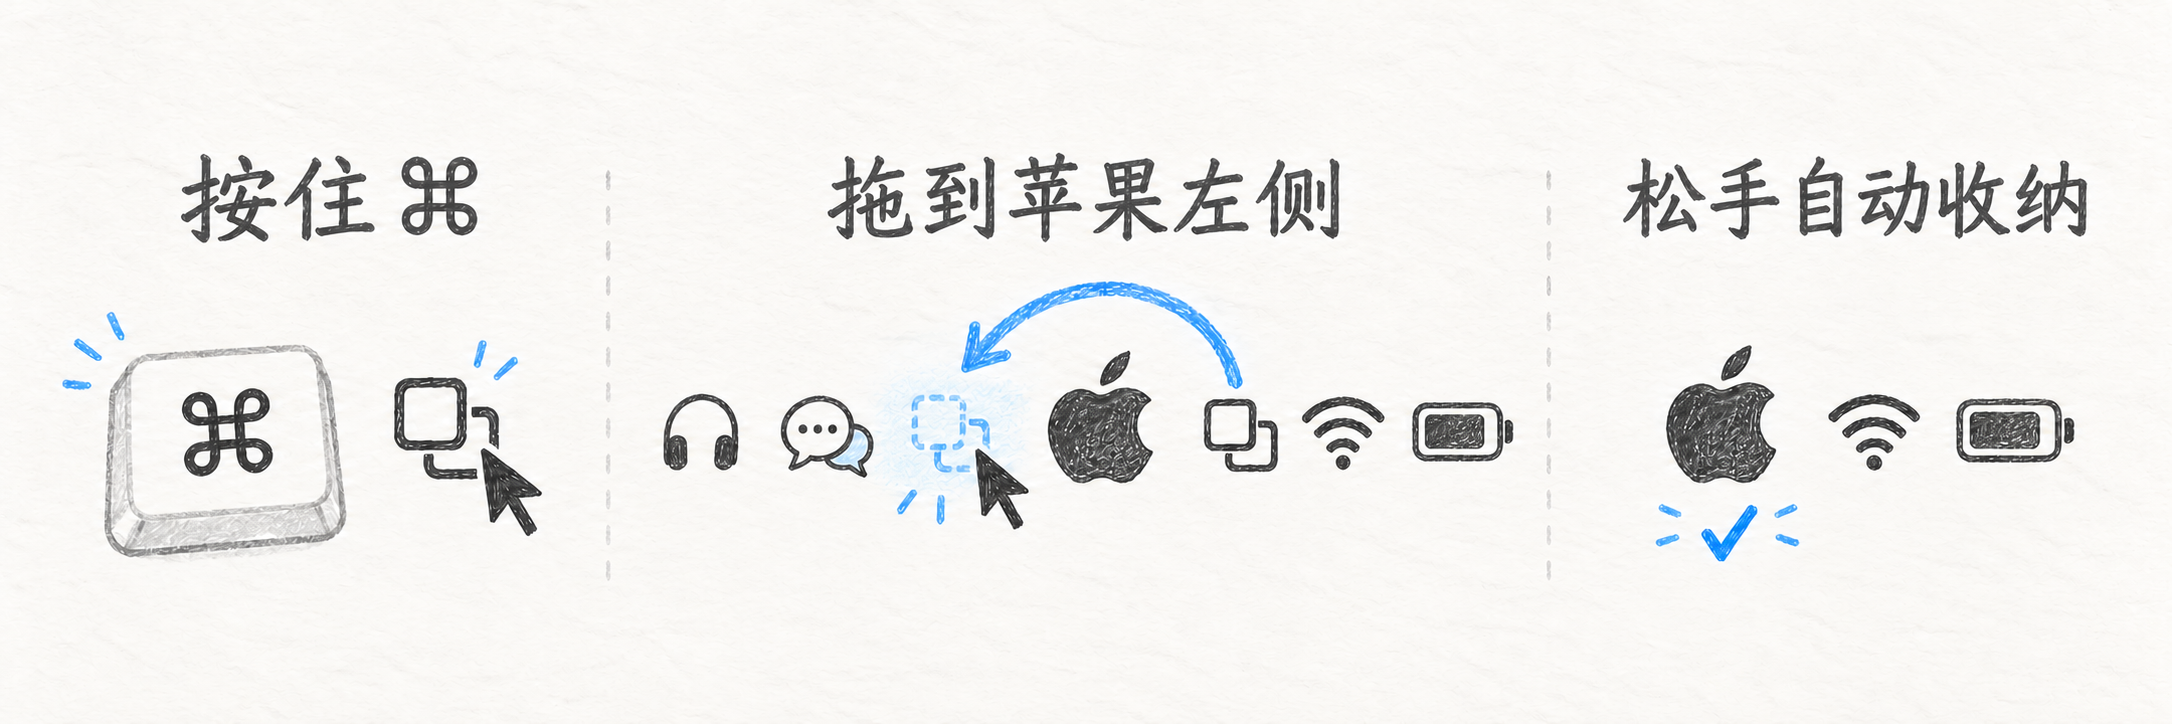
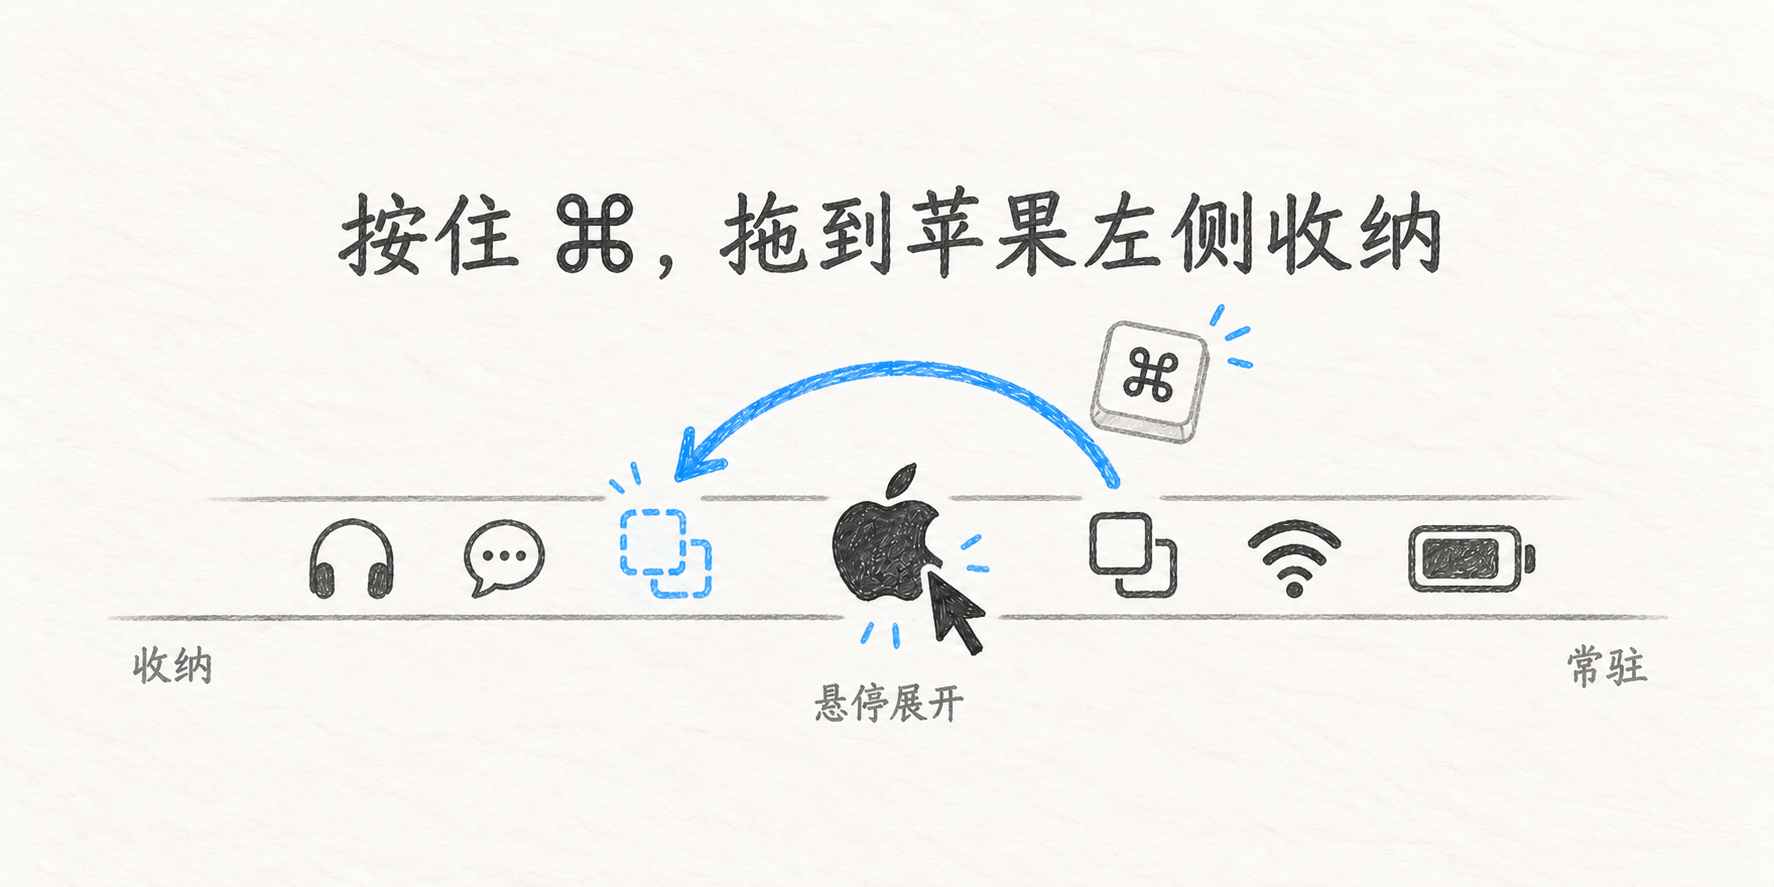
Simplify menu bar settings into one illustrated guide

diff --git a/Sources/MacOSX/MenuBarShelf/MenuBarNativeShelfDashboard.swift b/Sources/MacOSX/MenuBarShelf/MenuBarNativeShelfDashboard.swift
@@ -1,104 +1,65 @@
 import AppKit
 
-/// An illustrated native guide; application controls remain in the system bar.
+/// One illustrated instruction sheet. The module switch belongs to the host;
+/// permission and recovery actions appear only when the user needs them.
 @MainActor final class MenuBarNativeShelfDashboard: NSView {
-    var onCollect: ((String, Bool) -> Void)?
     var onRead: (() -> Void)?
-    var onShow: (() -> Void)?
-    var onCollapse: (() -> Void)?
     var onAccess: (() -> Void)?
-    private let heading = NSTextField(wrappingLabelWithString: "左侧收纳，右侧常驻")
-    private let explanation = NSTextField(wrappingLabelWithString: "按住 ⌘ 拖动图标，松手后自动按苹果左右归类。")
-    private let note = NSTextField(wrappingLabelWithString: "悬停苹果展开原图标；单击、双击仍由原应用处理。同一应用的多个图标请放在同侧。")
-    private let status = NSTextField(wrappingLabelWithString: "")
-    private let read = MinimalButton(title: "按当前位置收纳", target: nil, action: nil)
-    private let show = MinimalButton(title: "全部显示", target: nil, action: nil)
-    private let access = MinimalButton(title: "授权辅助功能", target: nil, action: nil)
     private let guideScroll = NSScrollView()
     private let guide = NSImageView()
-    private let scroll = NSScrollView()
-    private let list = NativeMenuBarCollectedList()
-    private var items: [NativeMenuBarChoice] = []
-    private var narrow = false
+    private let assistance = NSView()
+    private let message = NSTextField(wrappingLabelWithString: "")
+    private let action = MinimalButton(title: "", target: nil, action: nil)
+    private var needsPermission = false
+    private var lastWidth: CGFloat = 0
     private static let artwork: NSImage? = Bundle.main.url(forResource: "SettingsMenuBarBoard", withExtension: "png").flatMap { NSImage(contentsOf: $0) }
+    private var guideWidth: CGFloat { max(680, bounds.width) }
+    private var guideHeight: CGFloat {
+        let size = Self.artwork?.size ?? NSSize(width: 2, height: 1)
+        return guideWidth * size.height / max(1, size.width)
+    }
     override var isFlipped: Bool { true }
-    override var intrinsicContentSize: NSSize { CGSize(width: 840, height: narrow ? 590 : 500) }
+    override var intrinsicContentSize: NSSize {
+        NSSize(width: 840, height: guideHeight + (assistance.isHidden ? 0 : 86))
+    }
     init() {
-        super.init(frame: CGRect(x: 0, y: 0, width: 840, height: 500))
-        heading.font = SketchPalette.heading(23); heading.textColor = SketchPalette.ink
-        for label in [explanation, note, status] { label.font = .systemFont(ofSize: 13); label.textColor = SketchPalette.muted }
-        read.target = self; read.action = #selector(readItems)
-        show.target = self; show.action = #selector(showItems)
-        access.target = self; access.action = #selector(requestAccess)
+        super.init(frame: CGRect(x: 0, y: 0, width: 840, height: 420))
         guide.image = Self.artwork; guide.imageScaling = .scaleProportionallyUpOrDown
         guide.setAccessibilityElement(true); guide.setAccessibilityRole(.image)
-        guide.setAccessibilityLabel("按住 Command，把应用图标拖到我们的苹果左侧，松手自动收纳；苹果右侧保持常驻。")
+        guide.setAccessibilityLabel("按住 Command，把应用图标拖到我们的苹果左侧，松手自动收纳；拖到右侧保持常驻。悬停苹果展开原生图标，移开后自动收起。同一应用的多个图标请放在同一侧。")
+        guide.toolTip = "同一应用的多个图标请放在同一侧；单击、双击仍由原应用处理。"
         guideScroll.drawsBackground = false; guideScroll.borderType = .noBorder
-        guideScroll.hasHorizontalScroller = true; guideScroll.autohidesScrollers = true; guideScroll.documentView = guide
-        scroll.drawsBackground = false; scroll.borderType = .noBorder
-        scroll.hasVerticalScroller = true; scroll.autohidesScrollers = true; scroll.documentView = list
-        [heading, explanation, guideScroll, read, show, access, scroll, status, note].forEach { addSubview($0) }
+        guideScroll.hasHorizontalScroller = true; guideScroll.autohidesScrollers = true
+        guideScroll.scrollerStyle = .overlay; guideScroll.documentView = guide
+        addSubview(guideScroll)
+        message.font = .systemFont(ofSize: 13); message.textColor = SketchPalette.muted
+        action.target = self; action.action = #selector(resolveIssue)
+        assistance.addSubview(message); assistance.addSubview(action)
+        assistance.isHidden = true; addSubview(assistance)
     }
     required init?(coder: NSCoder) { nil }
-    @objc private func readItems() { onRead?() }
-    @objc private func showItems() { onShow?() }
-    @objc private func requestAccess() { onAccess?() }
-    func update(active: Bool, hidden: Bool, busy: Bool, reading: Bool, issue: String?, choices: [NativeMenuBarChoice], permitted: Bool) {
-        read.isEnabled = active && !reading && !busy; show.isEnabled = active
-        access.isHidden = permitted; access.isEnabled = active
-        let collected = choices.filter(\.collected)
-        if collected.map({ "\($0.bundle)|\($0.running)|\($0.name)" }) != items.map({ "\($0.bundle)|\($0.running)|\($0.name)" }) {
-            items = collected; list.setItems(collected)
-        }
-        status.stringValue = issue ?? (!active ? "开启后可从顶部苹果展开。" : reading ? "正在确认拖动后的位置…" : busy ? "正在收纳左侧图标…" : hidden ? "已收纳 \(collected.count) 个应用 · 悬停苹果展开" : "原生图标已展开 · 右侧常驻")
+    @objc private func resolveIssue() { if needsPermission { onAccess?() } else { onRead?() } }
+    func update(active: Bool, busy: Bool, reading: Bool, issue: String?, permitted: Bool) {
+        needsPermission = active && !permitted
+        let text: String? = needsPermission ? "需要辅助功能权限，授权后即可使用菜单栏收纳。" : active ? issue : nil
+        let wasHidden = assistance.isHidden
+        assistance.isHidden = text == nil
+        message.stringValue = text ?? ""
+        action.title = needsPermission ? "授权辅助功能" : "重试"
+        action.isEnabled = active && !reading && !busy
+        if wasHidden != assistance.isHidden { invalidateIntrinsicContentSize() }
         needsLayout = true
     }
     override func draw(_ dirtyRect: NSRect) { SketchPalette.paper.setFill(); dirtyRect.fill() }
     override func layout() {
         super.layout()
-        let width = max(220, bounds.width), compact = width < 500
-        if narrow != compact { narrow = compact; invalidateIntrinsicContentSize() }
-        heading.frame = CGRect(x: 0, y: 4, width: width, height: compact ? 62 : 32)
-        explanation.frame = CGRect(x: 0, y: compact ? 70 : 44, width: width, height: compact ? 40 : 24)
-        let guideY: CGFloat = compact ? 112 : 74, guideHeight: CGFloat = compact ? 214 : 198
-        guideScroll.frame = CGRect(x: 0, y: guideY, width: width, height: guideHeight)
-        // Narrow settings scroll the guide instead of making its titles tiny.
-        guide.frame = CGRect(x: 0, y: 0, width: max(600, guideScroll.contentSize.width), height: guideScroll.contentSize.height)
-        let top = guideY + guideHeight + 8
-        read.frame = CGRect(x: 0, y: top, width: 144, height: 30)
-        show.frame = CGRect(x: compact ? 0 : 154, y: compact ? top + 40 : top, width: 96, height: 30)
-        access.frame = CGRect(x: compact ? 106 : 260, y: compact ? top + 40 : top, width: 114, height: 30)
-        let start = top + (compact ? 82 : 42), bottom = max(start + 60, bounds.height - (compact ? 94 : 78))
-        scroll.frame = CGRect(x: 0, y: start, width: width, height: bottom - start)
-        list.frame = CGRect(x: 0, y: 0, width: scroll.contentSize.width, height: max(scroll.contentSize.height, list.contentHeight))
-        status.frame = CGRect(x: 0, y: bottom + 8, width: width, height: 28)
-        note.frame = CGRect(x: 0, y: bottom + 38, width: width, height: compact ? 56 : 40)
-    }
-}
-
-@MainActor private final class NativeMenuBarCollectedList: NSView {
-    private var rows: [NSTextField] = []
-    private let empty = NSTextField(wrappingLabelWithString: "还没有收纳图标 · 按住 ⌘ 拖到苹果左侧开始")
-    override var isFlipped: Bool { true }
-    var contentHeight: CGFloat { max(60, CGFloat(rows.count) * 30) }
-    override init(frame frameRect: NSRect) {
-        super.init(frame: frameRect)
-        empty.font = .systemFont(ofSize: 13); empty.textColor = SketchPalette.muted; addSubview(empty)
-    }
-    required init?(coder: NSCoder) { nil }
-    func setItems(_ items: [NativeMenuBarChoice]) {
-        rows.forEach { $0.removeFromSuperview() }; rows.removeAll()
-        for item in items {
-            let name = NSTextField(labelWithString: item.name + (item.running ? "" : " · 未运行"))
-            name.font = .systemFont(ofSize: 14); name.textColor = SketchPalette.ink
-            name.lineBreakMode = .byTruncatingTail; name.toolTip = item.name
-            rows.append(name); addSubview(name)
-        }
-        empty.isHidden = !rows.isEmpty; needsLayout = true; superview?.superview?.needsLayout = true
-    }
-    override func layout() {
-        super.layout()
-        for (index, row) in rows.enumerated() { row.frame = CGRect(x: 8, y: CGFloat(index) * 30 + 3, width: max(20, bounds.width - 16), height: 24) }
-        empty.frame = CGRect(x: 8, y: 10, width: max(20, bounds.width - 16), height: 48)
+        if lastWidth != bounds.width { lastWidth = bounds.width; invalidateIntrinsicContentSize() }
+        // Fill the page with the actual artwork. On narrow windows preserve
+        // legibility with horizontal scrolling rather than shrinking the text.
+        guideScroll.frame = CGRect(x: 0, y: 0, width: max(1, bounds.width), height: guideHeight)
+        guide.frame = CGRect(x: 0, y: 0, width: guideWidth, height: guideHeight)
+        assistance.frame = CGRect(x: 0, y: guideHeight + 10, width: max(1, bounds.width), height: 76)
+        message.frame = CGRect(x: 0, y: 0, width: assistance.bounds.width, height: 34)
+        action.frame = CGRect(x: 0, y: 40, width: needsPermission ? 128 : 70, height: 30)
     }
 }

diff --git a/Sources/MacOSX/MenuBarShelf/MenuBarShelfModule.swift b/Sources/MacOSX/MenuBarShelf/MenuBarShelfModule.swift
@@ -79,8 +79,6 @@ import MenuBarVisibilityBridge
         if native {
             let view = MenuBarNativeShelfDashboard(); nativeDashboard = view
             view.onRead = { [weak self] in self?.shelf?.collectLeftOfApple() }
-            view.onShow = { [weak self] in self?.shelf?.showAll() }
-            view.onCollapse = { [weak self] in self?.shelf?.collapse() }
             view.onAccess = { [weak self] in self?.shelf?.requestAccess() }
             refresh(); return view
         }
@@ -122,8 +120,8 @@ import MenuBarVisibilityBridge
         boundary?.button?.image = NSImage(systemSymbolName: state == .collapsed ? "chevron.right" : "chevron.left", accessibilityDescription: "菜单栏收纳")
         boundary?.button?.image?.isTemplate = true
         boundary?.button?.toolTip = "点击收起／展开 · 按住 ⌘ 拖动图标分组"
-        nativeDashboard?.update(active: active, hidden: shelf?.hidden ?? false, busy: shelf?.busy ?? false,
-                                reading: shelf?.reading ?? false, issue: issue, choices: shelf?.choices ?? [], permitted: shelf?.permission() ?? false)
+        nativeDashboard?.update(active: active, busy: shelf?.busy ?? false,
+                                reading: shelf?.reading ?? false, issue: issue, permitted: shelf?.permission() ?? false)
         dashboard?.setItems(drawer: [], visible: [])
         dashboard?.update(active: active, state: state, auto: autoCollapse, issue: issue, count: hiddenCount, native: native)
         onStatusChange?()

diff --git a/Sources/MacOSX/MenuBarShelf/MenuBarNativeShelf.swift b/Sources/MacOSX/MenuBarShelf/MenuBarNativeShelf.swift
@@ -94,7 +94,7 @@ struct NativeMenuBarChoice {
     func requestAccess() {
         guard active else { return }
         if requestPermission() { issue = nil; readChoices() }
-        else { issue = "授权后返回，点“读取应用”继续。"; changed() }
+        else { issue = "请在系统设置中授权辅助功能，返回后重试。"; changed() }
     }
 
     init(defaults: UserDefaults, visibility: MenuVisibilityProviding) {

diff --git a/docs/native-menu-bar-acceptance.md b/docs/native-menu-bar-acceptance.md
@@ -7,7 +7,7 @@
 - 展开时释放收纳限制，实际图标留在系统菜单栏。原应用直接接收物理鼠标操作并绘制实时状态。
 - 没有下方镜像抽屉、截图流、图标缓存、事件 tap、鼠标重放、点击次数解释或光标搬动。
 - 仅被动观察输入，局部监听原样返回事件，移动事件合并；可见性变更和 AX 观察在输入回调返回后执行。AX 只观察，不执行菜单动作。
-- 收纳名单按应用保存，系统决定原生图标顺序。按住 ⌘ 原生拖动后，仅观察松手的位置并读取当前菜单栏两次一致的真实容器布局，按苹果左右更新名单；设置中的“按当前位置收纳”可显式重试。
+- 收纳名单按应用保存，系统决定原生图标顺序。按住 ⌘ 原生拖动后，仅观察松手的位置并读取当前菜单栏两次一致的真实容器布局，按苹果左右更新名单；设置正常时只展示一幅使用图；读取失败时才临时提供“重试”。
 - 不按手势的意图坐标猜测最终落位，不合成拖动事件。位置不完整、布局仍变化、同应用图标跨两侧或存在重叠代理时避免误收纳；无法确认时保留原设置并显示重试提示。
 - 点击菜单栏图标后保持展开；经确认的主菜单取消选中、Esc、其他应用标准窗口点击才释放交互状态。无法判断的自绘弹窗保持展开，直到明确退出操作。
 - 任一屏幕菜单栏的预备区域都会先释放限制，减少系统其他状态项受到隐藏机制影响的机会。
@@ -28,4 +28,4 @@
 
 构建、状态回归和签名校验不代表原生交互已通过用户验收。
 
-事件入口回归必须经过 NSEvent 适配层验证按下、拖动和松开，不能只直接调用内部 CommandDragPhase。点击“全部显示”须取消未完成的归类读取与已入队拖动观察；晚到结果不得反转用户选择。
+事件入口回归必须经过 NSEvent 适配层验证按下、拖动和松开，不能只直接调用内部 CommandDragPhase。内部全部显示操作须取消未完成的归类读取与已入队拖动观察；晚到结果不得反转用户选择。设置常态不再提供这颗按钮。

diff --git a/AGENTS.md b/AGENTS.md
@@ -177,3 +177,5 @@
 - 用户最新明确流程：每次完成迭代和必要代码检查后直接发布正常 GitHub OTA，由用户更新安装版并验收；不因“用户验收”改为单独本地测试版。不操作用户界面验证，不替用户安装更新；0.1 正式版仍需用户确认。本条取代本轮此前“暂不发布／仅独立测试包”的安排。
 
 - 菜单栏整理以我们的苹果为左右分界：按住 ⌘ 进行系统原生拖动，松手后有界读取稳定的真实落位，左侧可识别应用收纳、右侧常驻；观察事件不吞掉、不重放、不替系统排序。只有完整且重复稳定的当前菜单栏容器位置才能更新名单；同应用跨两侧时右侧优先保持显示，离线名单保留。松手后的静止指针不得立即重开，移开再进入恢复原生展开；停用、Esc、环境变化取消旧读取。设置图使用 Resources/SettingsMenuBarBoard.png：三步“按住 ⌘ → 拖到苹果左侧 → 松手自动收纳”，标题统一深灰铅笔色，蓝色只用于箭头、落点与完成反馈。窄页面横向查看图示，不把文字整体缩小；打包实际图像资源，图片不充当应用图标操作入口。真实系统拖动仍由用户验收。
+
+- 菜单栏收纳设置正文是一幅完整的 ImageGen 使用说明图，仅保留宿主页头启停开关。图内用一条原生菜单栏、一个苹果和一个向左的 ⌘ 拖动箭头表达收纳关系，避免分步分栏、重复图标行和大段说明；标题深灰，蓝色仅作动作反馈。常态移除应用列表、数量、全部显示与手动归类按钮；权限缺失或真实错误才临时出现授权／重试入口。不把说明图当成真实菜单栏点击代理。本条替代此前三步分栏和配置名单的设置页表达。
